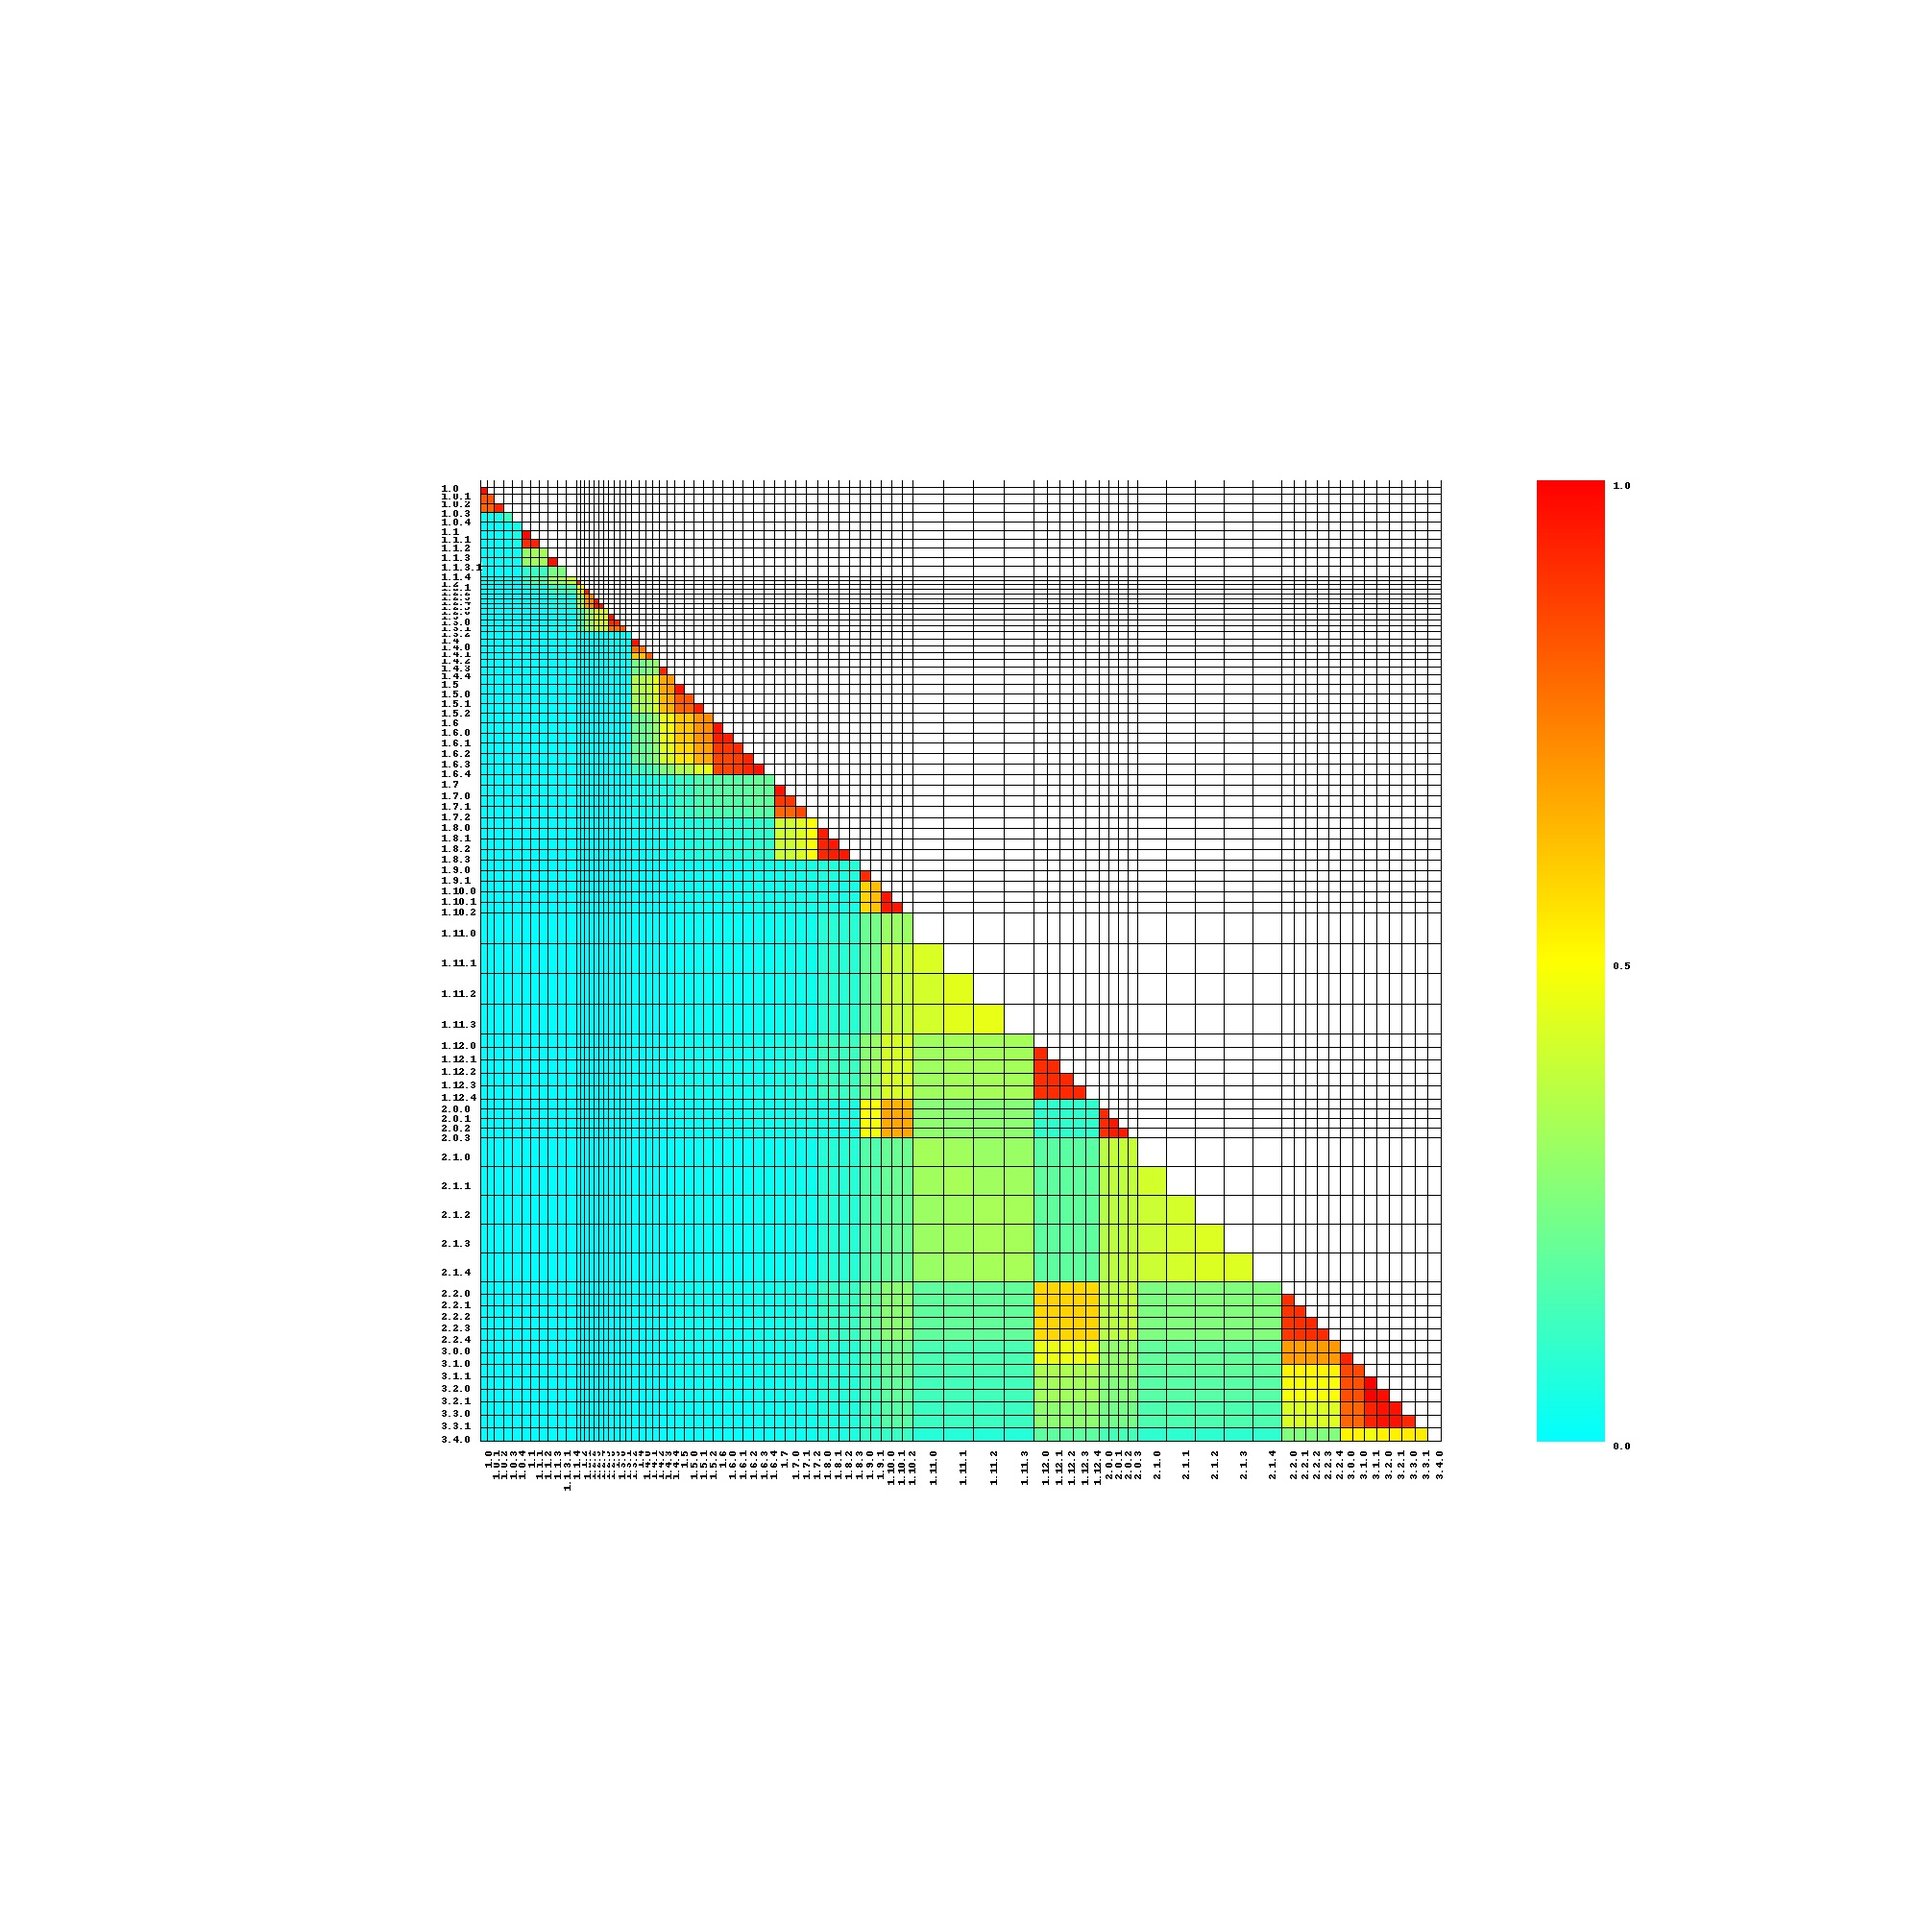
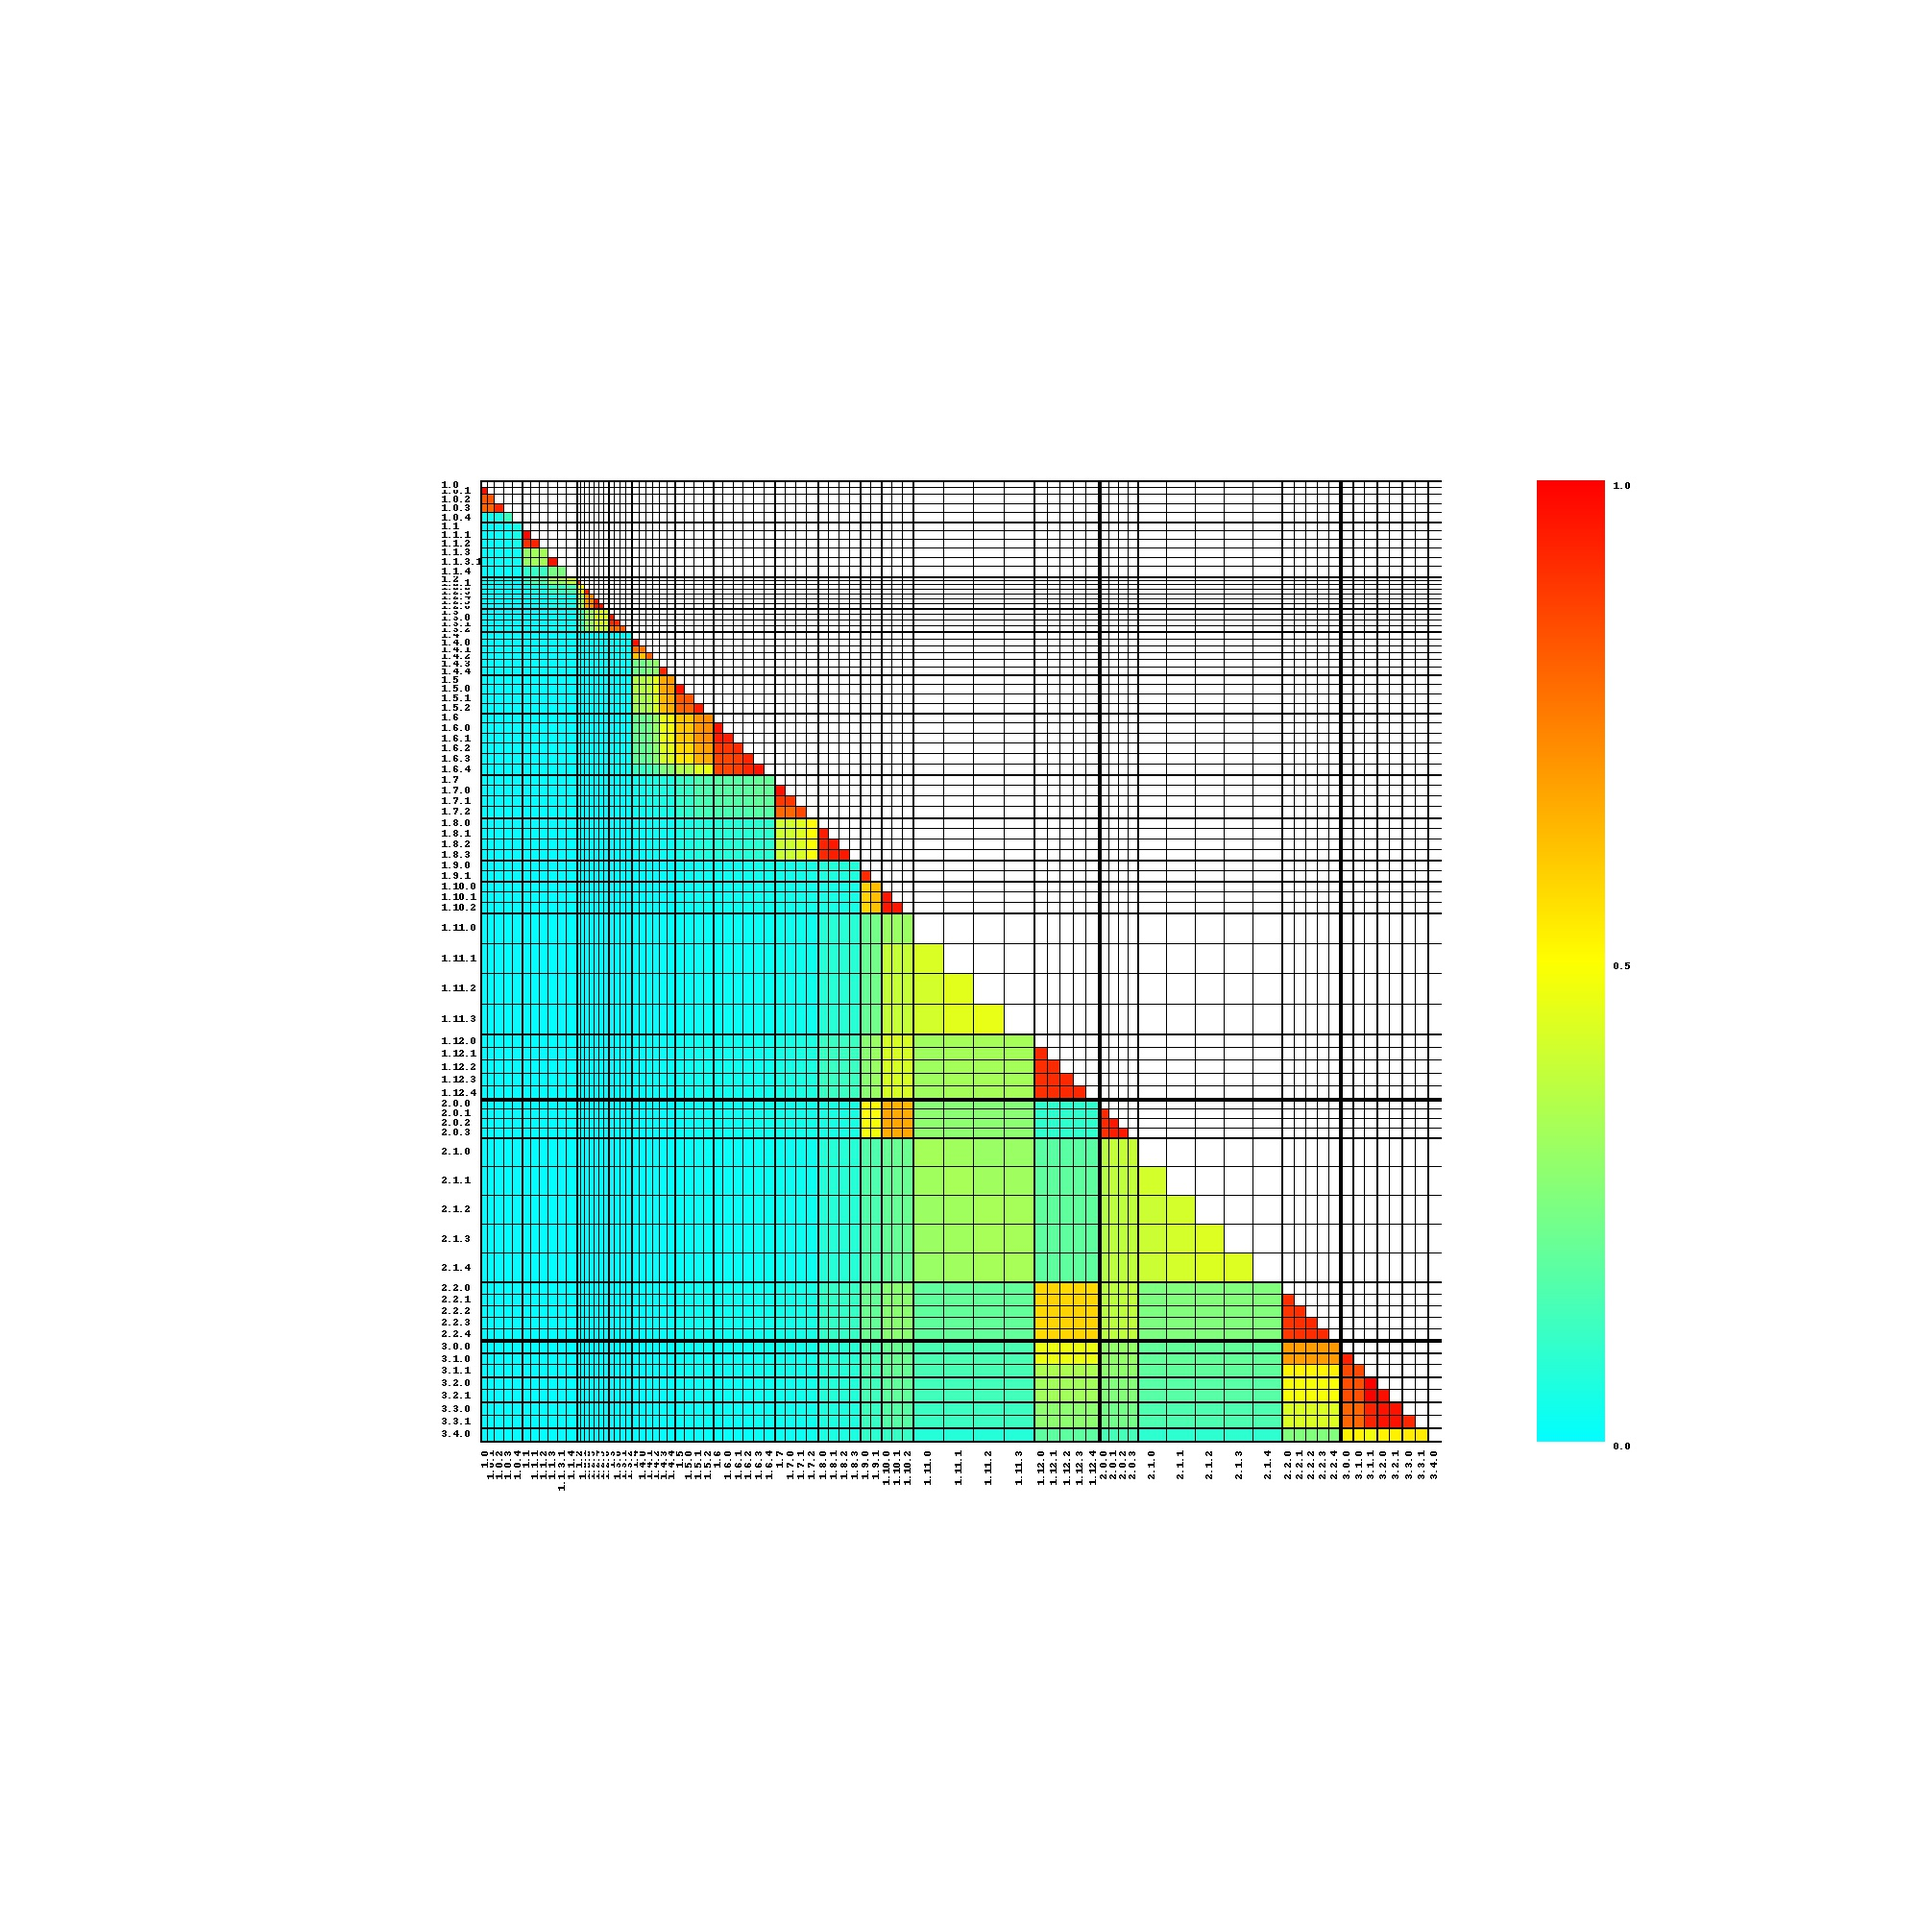
Draw thicker grid lines for major versions

diff --git a/visualization.py b/visualization.py
@@ -55,18 +55,29 @@ def drawGrid(image, releases, matrix, sx, sy, size):
     # Draw the labels
     for release in releases:
         tag = release['tag']
-        pos = int((release['startLine'] + release['endLine']) / 2.0 * scale)
+        print(getTextSize(tag))
+        pos = int((release['startLine'] + release['endLine']) / 2.0 * scale - getTextSize(tag)[1]/2)
         drawText(image, (sx + pos, sy + size + 10), tag, 90)
         drawText(image, (sx - 40, sy + pos), tag, 0)
 
     # Draw the grid-lines
-    draw.line((sx, sy, sx, sy + size), fill=BLACK, width=1)
-    draw.line((sx, sy + size, sx + size, sy + size), fill=BLACK, width=1)
+    LINE_WIDTH_DEFAULT = 1
+    LINE_WIDTH_MAJOR = 2
+    LINE_WIDTH_DOUBLE_MAJOR = 4
+    draw.line((sx, sy, sx, sy + size), fill=BLACK, width=LINE_WIDTH_MAJOR)
+    draw.line((sx, sy + size, sx + size, sy + size), fill=BLACK, width=LINE_WIDTH_MAJOR)
     for release in releases:
-        x = sx + (release['endLine'] * scale)
-        draw.line((x, sy, x, sy + size), fill=BLACK, width=1)
-        y = sy + release['endLine'] * scale
-        draw.line((sx, y, sx + size, y), fill=BLACK, width=1)
+        version = release['tag'].split('.')
+        if int(version[0]) > 1 and version[1] == '0' and version[2] == '0':
+            line_width = LINE_WIDTH_DOUBLE_MAJOR
+        elif len(version) <= 2 or (version[2] == '0' and (int(version[0]) > 1 or int(version[1]) > 7)):
+            line_width = LINE_WIDTH_MAJOR
+        else:
+            line_width = LINE_WIDTH_DEFAULT
+        x = sx + (release['startLine'] * scale)
+        draw.line((x, sy, x, sy + size), fill=BLACK, width=line_width)
+        y = sy + release['startLine'] * scale
+        draw.line((sx, y, sx + size, y), fill=BLACK, width=line_width)
 
 
 def drawLegend(image, sx, sy, width, height):
@@ -79,6 +90,10 @@ def drawLegend(image, sx, sy, width, height):
     drawText(image, (sx + width + TEXTDIST, sy), "1.0", 0)
     drawText(image, (sx + width + TEXTDIST, int(sy + height / 2)), "0.5", 0)
     drawText(image, (sx + width + TEXTDIST, sy + height), "0.0", 0)
+
+
+def getTextSize(text):
+    return ImageFont.load_default().getsize(text)
 
 
 def drawText(image, pos, text, angle):
